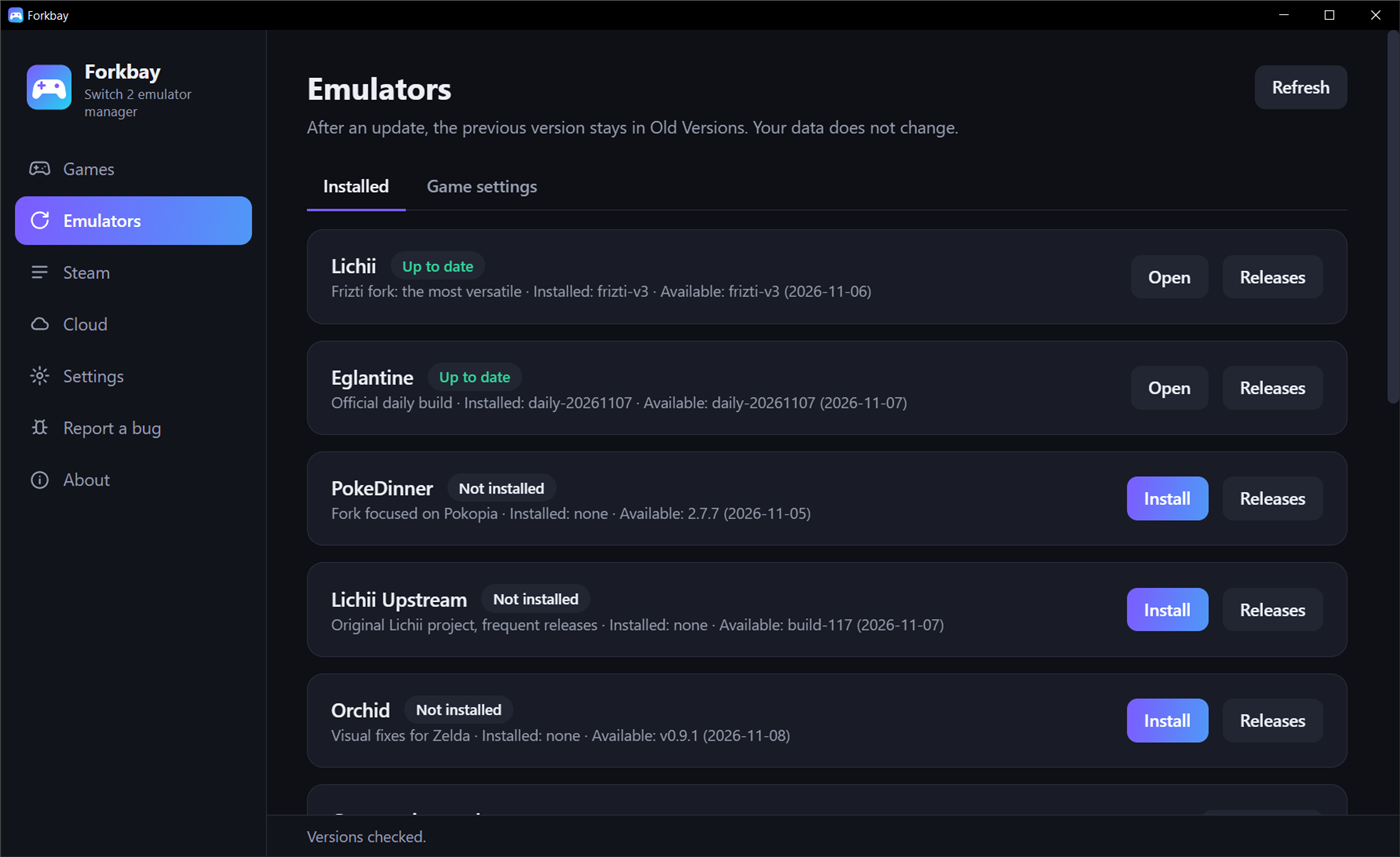
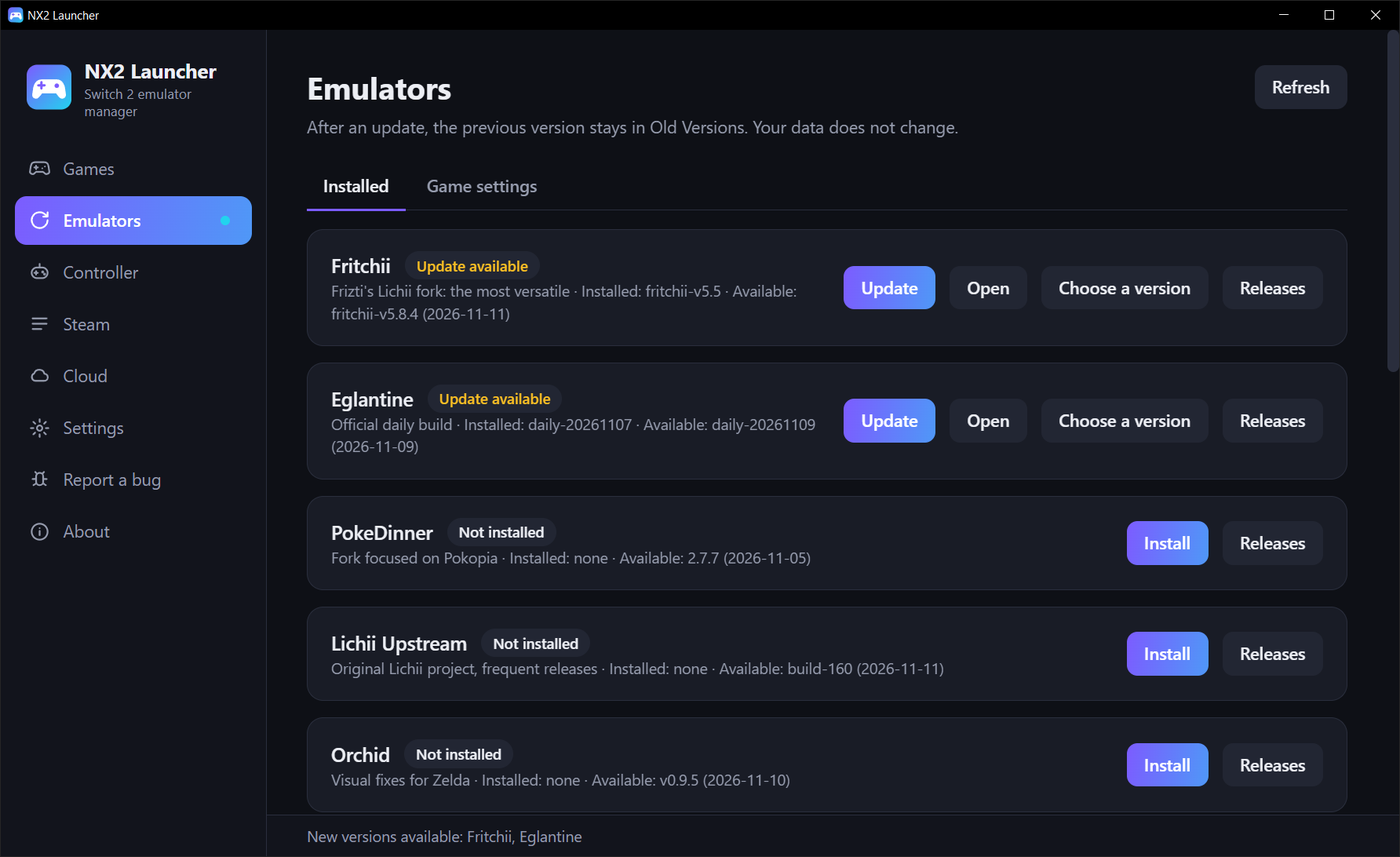
New README captures and animations under the new name

diff --git a/README.md b/README.md
@@ -11,15 +11,17 @@ One window for your Switch 2 emulators on Windows and Linux: launch games, keep 
 
 **[Français](#français)**
 
-![The games library](docs/screenshots/games.png)
+![The games library: sort, search, then a game's settings, images and player reports](docs/screenshots/library.gif)
 
-**Each game has its own settings and images**
+**Sort and search your games, then open a game for its own settings, its images and the latest player reports**
 
-![A game's settings and images](docs/screenshots/game-details.gif)
+![The Controller page: every controller type, the controls used in NX2 Launcher, and the shortcuts](docs/screenshots/controller.gif)
 
-**Dark, light or black, with the theme of your choice**
+**One controller setup for every emulator: Pro Controller, Joy-Cons, handheld or GameCube, plus the controls of NX2 Launcher itself and the shortcuts**
 
 ![Switching themes](docs/screenshots/themes.gif)
+
+**Dark, light or black, with the theme of your choice**
 
 <table>
   <tr>
